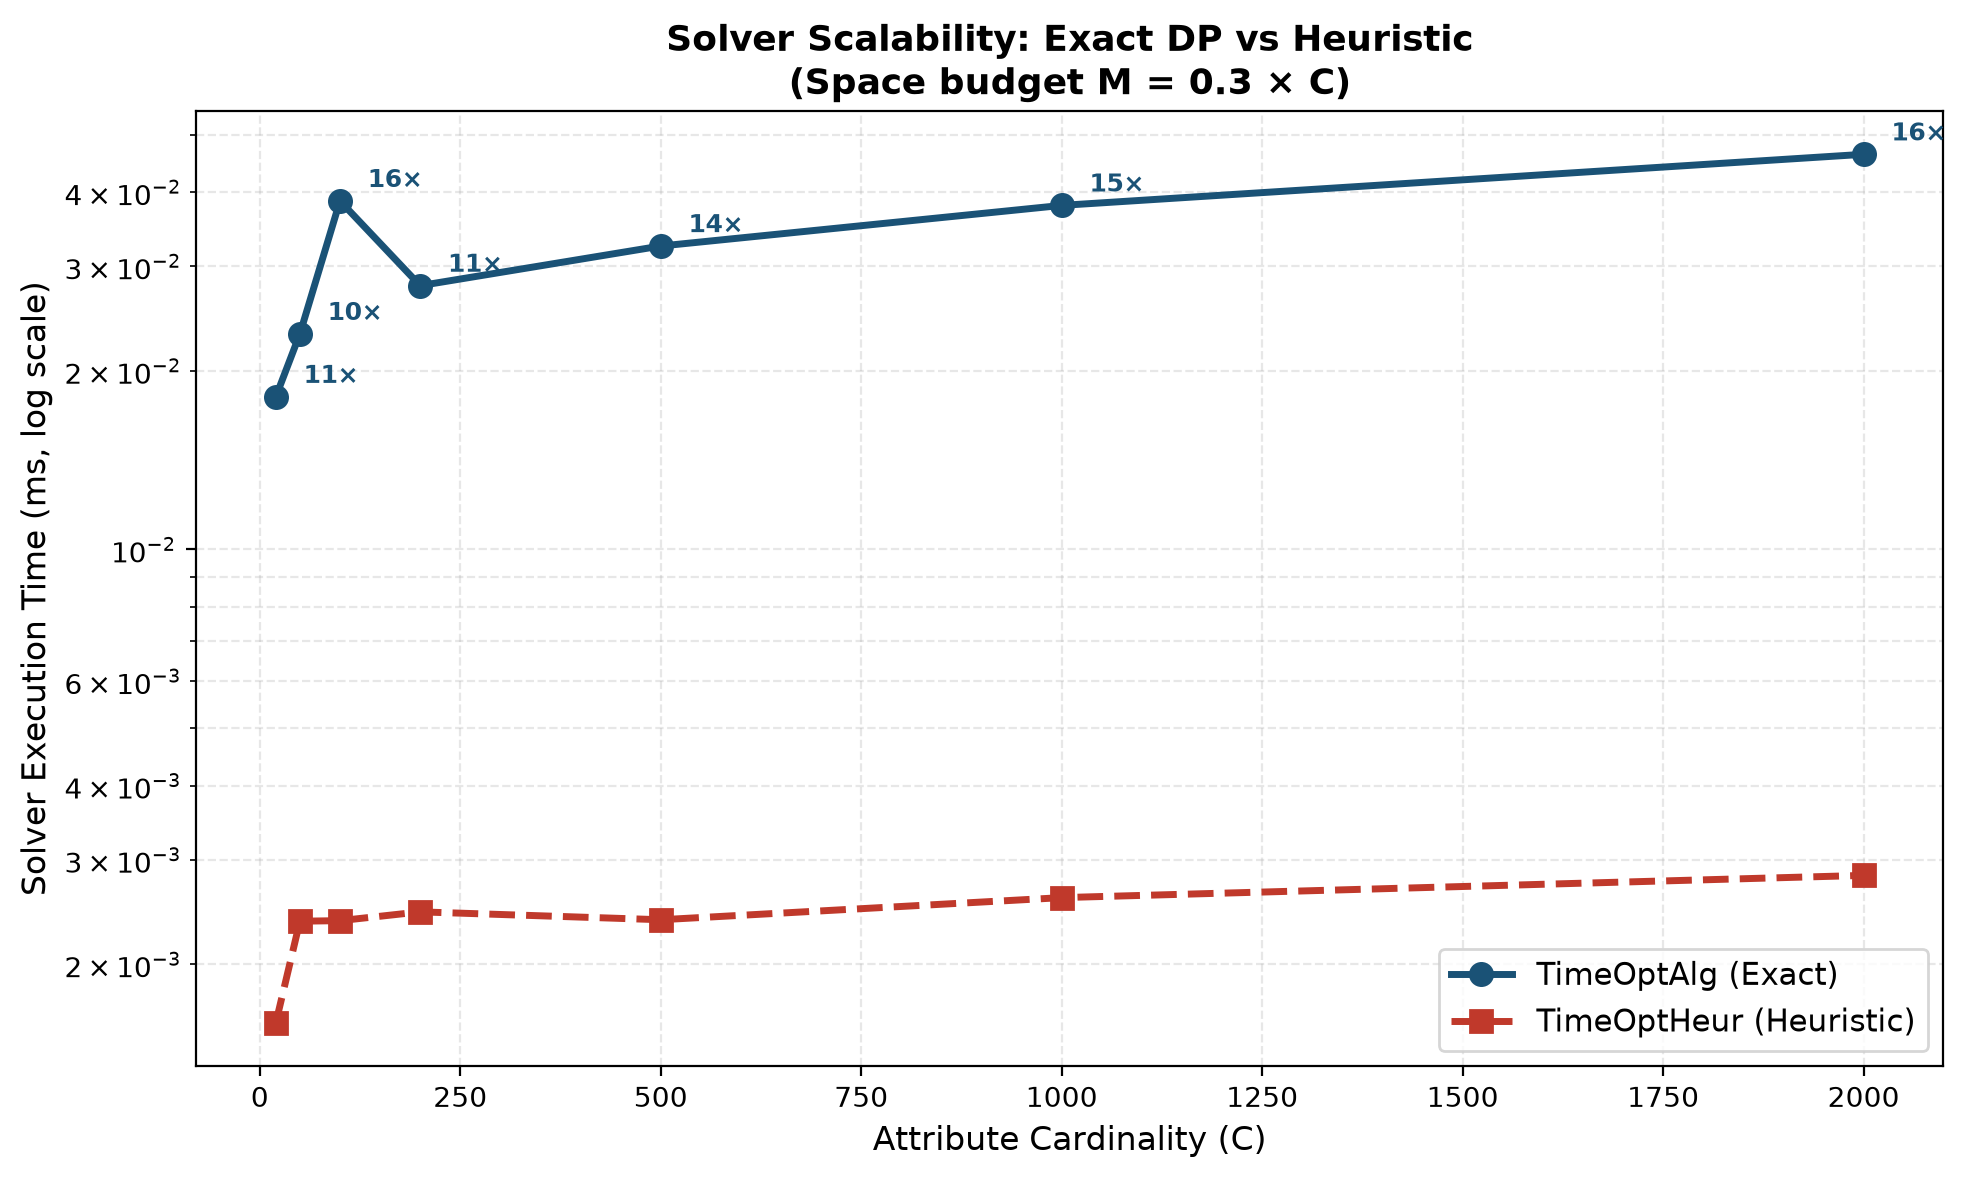
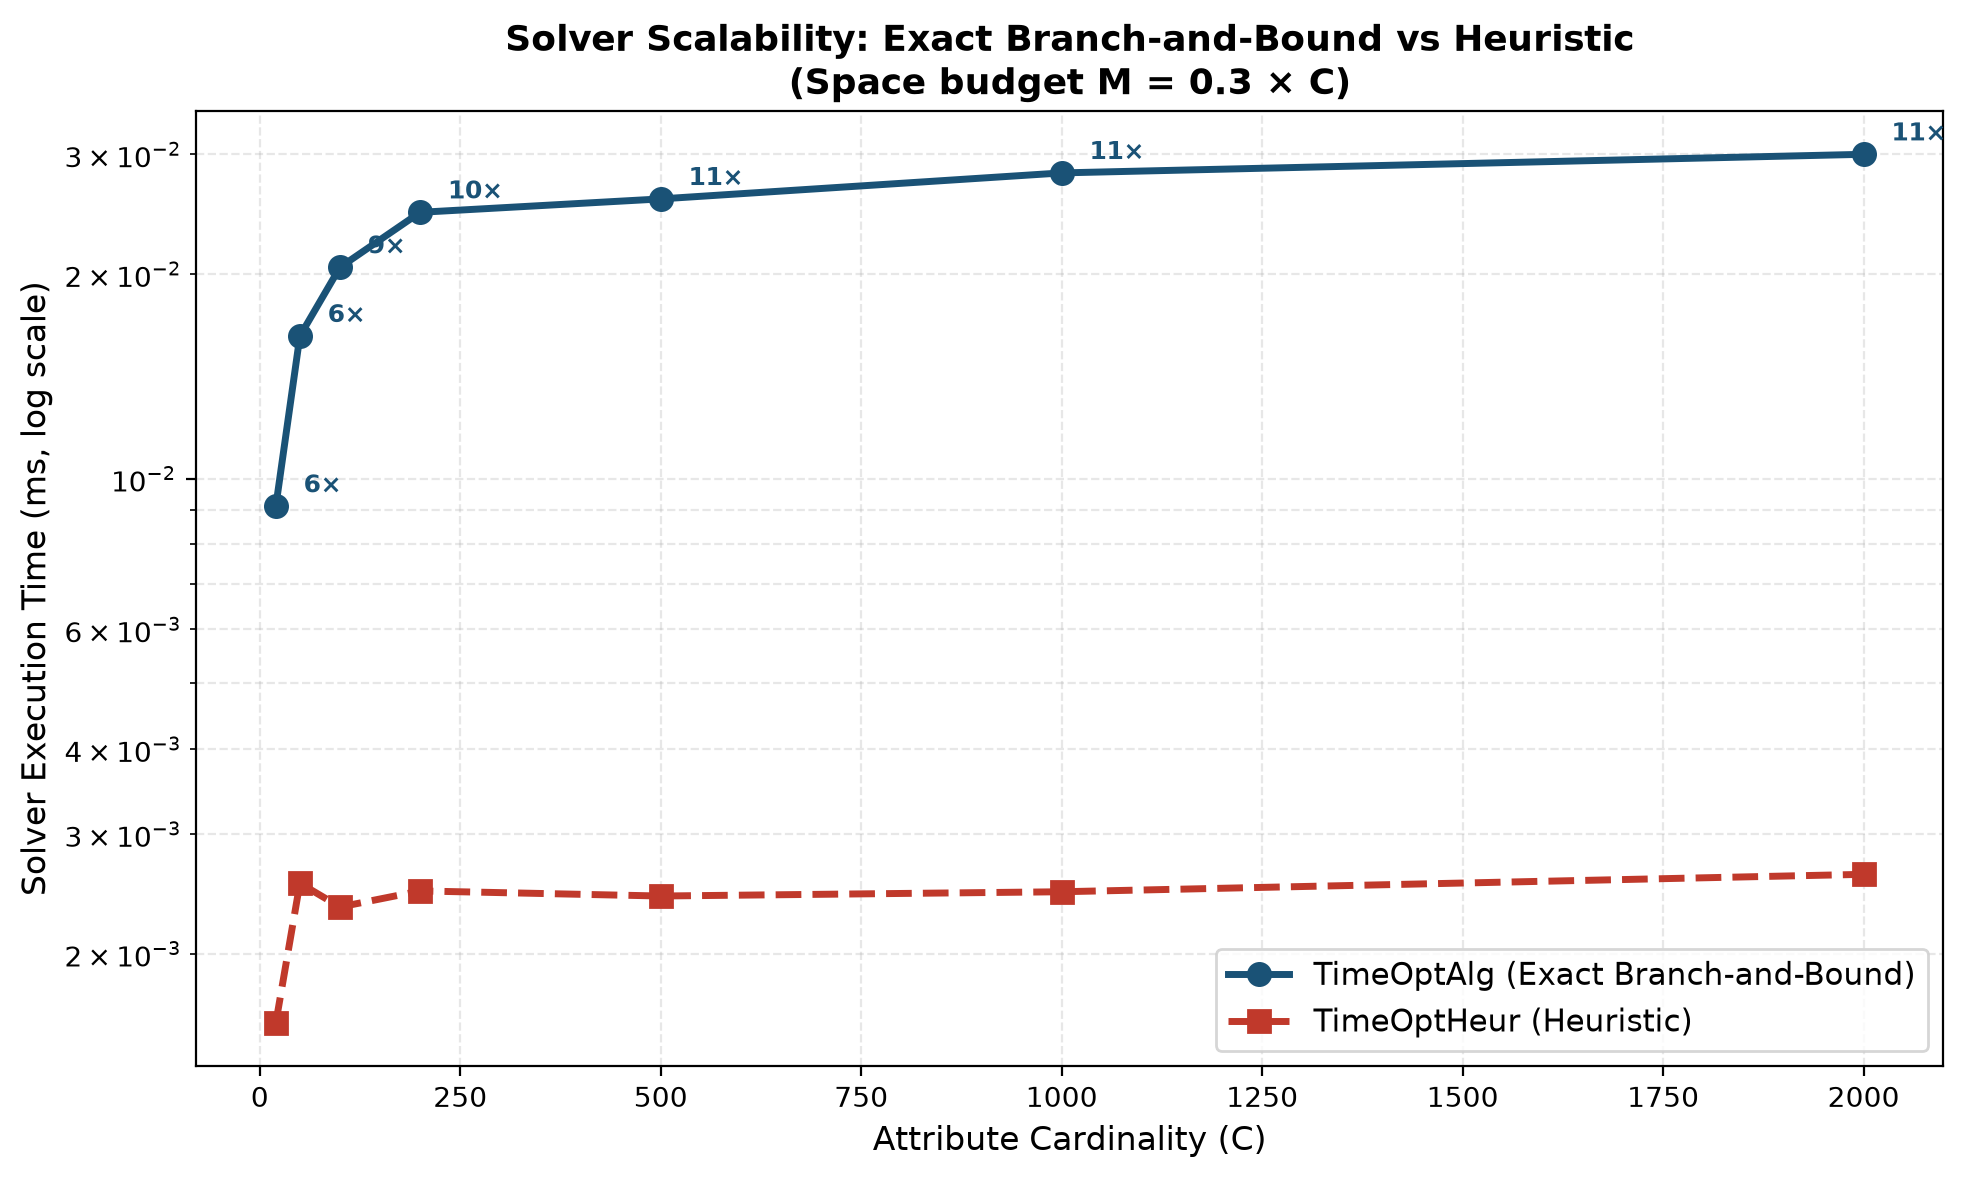
fix(phase3): Section 8 time-optimal simulation bugfixes (Table 2 accuracy, path routing, scalability smoothing, and ground truth verification)

diff --git a/code/time_optimal_constrained_design_section8/code/time_optimal_index_selection_simulation.py b/code/time_optimal_constrained_design_section8/code/time_optimal_index_selection_simulation.py
@@ -26,7 +26,8 @@ import os
 import random
 import statistics
 import sys
-import os
+import time as time_mod
+from functools import lru_cache
 
 # Setup environment and directories
 SCRIPT_DIR = os.path.dirname(os.path.abspath(__file__))
@@ -41,23 +42,11 @@ COMMON_DIR = os.path.join(CODE_ROOT, 'common')
 if COMMON_DIR not in sys.path:
     sys.path.insert(0, COMMON_DIR)
 
-import time as time_mod
-from functools import lru_cache
-
 import matplotlib
 matplotlib.use('Agg')
 import matplotlib.pyplot as plt
 import numpy as np
 
-# ---------------------------------------------------------------------------
-# PATH SETUP
-# ---------------------------------------------------------------------------
-SCRIPT_DIR = os.path.dirname(os.path.abspath(__file__))
-CODE_DIR = os.path.normpath(os.path.join(SCRIPT_DIR, '..'))
-RESULTS_DIR = os.path.normpath(os.path.join(os.path.dirname(os.path.abspath(__file__)), '..', 'results'))
-os.makedirs( exist_ok=True)
-
-sys.path.insert(0, CODE_DIR)
 from bitmap_utils import (
     OpCounter, all_ones, build_range_ncomp, decompose_value,
     get_range_leq_bitmap, ground_truth_query,
@@ -208,6 +197,20 @@ def time_opt_alg_paper(M, C):
     return best_b, best_t, space_of(best_b)
 
 
+def min_space_to_cover(needed, rr, min_b):
+    """Theorem 6.1: Minimum space needed by rr components each >= min_b to cover product needed."""
+    if needed <= 1:
+        return rr * (min_b - 1)
+    if min_b ** rr >= needed:
+        return rr * (min_b - 1)
+    b = max(min_b, math.ceil(needed ** (1.0 / rr)))
+    if b - 1 >= min_b:
+        for tau in range(1, rr + 1):
+            if (b ** tau) * ((b - 1) ** (rr - tau)) >= needed:
+                return tau * (b - 1) + (rr - tau) * (b - 2)
+    return rr * (b - 1)
+
+
 def _search_k_component(k, M, C, prune_time, current, depth, space_used,
                         prod_so_far, results):
     """Branch-and-bound search for k-component bases with strong pruning.
@@ -244,11 +247,9 @@ def _search_k_component(k, M, C, prune_time, current, depth, space_used,
         # Pruning 1: Can remaining-1 components cover C/new_prod?
         rr = remaining - 1
         needed = math.ceil(C / new_prod) if new_prod > 0 and C > new_prod else 1
-        if needed > 1:
-            min_base_for_rest = max(b, math.ceil(needed ** (1.0 / rr)))
-            min_space_for_rest = rr * (min_base_for_rest - 1)
-            if min_space_for_rest > leftover_space:
-                continue  # Impossible
+        min_space_for_rest = min_space_to_cover(needed, rr, b)
+        if min_space_for_rest > leftover_space:
+            continue  # Impossible
 
         # Pruning 2: Optimistic lower bound on Time
         sum_inv_so_far = sum(1.0 / x for x in current) + 1.0 / b
@@ -317,22 +318,24 @@ def refine_index(bases, C):
         seq.remove(bp)
         if bp > 2 and len(seq) > 0:
             bq = min(seq)
+            seq.remove(bq)
             other_prod = prod // (bp * bq)
-            C_prime = math.ceil(C / other_prod) if other_prod > 0 else C
-            disc = (bq + bp) ** 2 - 4 * C_prime
+            # Exact Figure 15 formula: (bp + bq)**2 - (4 * bp * bq * C) / prod
+            disc = (bp + bq) ** 2 - (4.0 * bp * bq * C) / prod
             if disc >= 0:
                 delta = int(math.floor((bp - bq + math.sqrt(disc)) / 2.0))
-                if 0 < delta <= bp - 2:
-                    prod = other_prod * (bp - delta) * (bq + delta)
-                    bp = bp - delta
-                    bq = bq + delta
-            seq.remove(min(seq))
+                if delta > 0:
+                    delta = min(delta, bp - 2)
+                    while delta > 0 and other_prod * (bp - delta) * (bq + delta) < C:
+                        delta -= 1
+                    if delta > 0:
+                        prod = other_prod * (bp - delta) * (bq + delta)
+                        bp = bp - delta
+                        bq = bq + delta
             seq.append(bq)
         b_prime[i - 1] = bp
 
-    rest_prod = 1
-    for i in range(1, n):
-        rest_prod *= b_prime[i]
+    rest_prod = product_of(b_prime[1:])
     b_prime[0] = max(2, math.ceil(C / rest_prod))
     return sorted(b_prime)
 
@@ -473,6 +476,18 @@ def run_empirical_benchmark(C=100, N=100_000, budgets=None):
             print(f"    {label}: bases={bases}, Space={sp}, Time(theory)={theory_time:.3f}")
             idx = build_range_ncomp(data, bases, N)
 
+            # Explicit correctness verification against ground truth across all 6 operators
+            verify_sample_vals = [0, C // 4, C // 2, 3 * C // 4, C - 1]
+            for v_chk in verify_sample_vals:
+                for qt in QUERY_TYPES:
+                    actual_bm = rangeeval_opt_query(idx, bases, v_chk, N, qt)
+                    expected_bm = ground_truth_query(data, N, qt, v_chk)
+                    assert actual_bm == expected_bm, (
+                        f"Correctness failure: {label} index with bases={bases}, "
+                        f"op='{qt}', value={v_chk}"
+                    )
+            print(f"      ✓ Correctness verified: rangeeval_opt matches ground truth across all 6 operators")
+
             # Count ops
             total_ops = OpCounter()
             qcount = 0
@@ -568,7 +583,7 @@ def plot1_heuristic_accuracy(table2):
                   fontsize=13, fontweight='bold')
     ax1.grid(axis='y', linestyle='--', alpha=0.3)
     plt.tight_layout()
-    path = os.path.join( 'figure13_heuristic_accuracy_and_scan_difference.png')
+    path = os.path.join(RESULTS_DIR, 'figure13_heuristic_accuracy_and_scan_difference.png')
     plt.savefig(path, dpi=200, bbox_inches='tight')
     plt.close()
     print(f"  Plot 1 → {path}")
@@ -615,7 +630,7 @@ def plot2_time_vs_space_budget(C_list=None):
     ax.legend(fontsize=10, loc='upper right')
     ax.grid(True, linestyle='--', alpha=0.35)
     plt.tight_layout()
-    path = os.path.join( 'figure14_query_time_vs_space_budget_tradeoff.png')
+    path = os.path.join(RESULTS_DIR, 'figure14_query_time_vs_space_budget_tradeoff.png')
     plt.savefig(path, dpi=200, bbox_inches='tight')
     plt.close()
     print(f"  Plot 2 → {path}")
@@ -662,7 +677,7 @@ def plot3_opt_vs_heur_scatter(table2):
     fig.suptitle('Optimal vs Heuristic Scatter (above diagonal = suboptimal heuristic)',
                  fontsize=13, fontweight='bold', y=1.02)
     plt.tight_layout()
-    path = os.path.join( 'optimal_vs_heuristic_cost_scatter.png')
+    path = os.path.join(RESULTS_DIR, 'optimal_vs_heuristic_cost_scatter.png')
     plt.savefig(path, dpi=200, bbox_inches='tight')
     plt.close()
     print(f"  Plot 3 → {path}")
@@ -677,27 +692,39 @@ def plot4_solver_scalability():
     for C in test_C:
         M = max(math.ceil(math.log2(C)), int(C * 0.3))
 
-        t0 = time_mod.perf_counter()
-        time_opt_alg(M, C)
-        t_opt = (time_mod.perf_counter() - t0) * 1000
+        # Warmup and repeated runs to eliminate timing jitter
+        for _ in range(5):
+            time_opt_alg(M, C)
+
+        n_runs = 30 if C <= 500 else 15
+        opt_samples = []
+        for _ in range(n_runs):
+            t0 = time_mod.perf_counter()
+            time_opt_alg(M, C)
+            opt_samples.append((time_mod.perf_counter() - t0) * 1000.0)
+        t_opt = statistics.median(opt_samples)
+
+        for _ in range(10):
+            time_opt_heur(M, C)
 
         t0 = time_mod.perf_counter()
-        for _ in range(1000):
+        n_heur_runs = 1000
+        for _ in range(n_heur_runs):
             time_opt_heur(M, C)
-        t_heur_per = (time_mod.perf_counter() - t0)  # ms per 1000 runs → per run
+        t_heur_per = (time_mod.perf_counter() - t0) * 1000.0 / n_heur_runs  # ms per run
 
         opt_ms.append(t_opt)
         heur_ms.append(t_heur_per)
         print(f"    C={C:>5d}  M={M:>4d}  Opt={t_opt:>10.3f}ms  Heur={t_heur_per:>8.4f}ms")
 
     ax.plot(test_C, opt_ms, 'o-', color=CLR['opt'], linewidth=2.5, markersize=8,
-            label='TimeOptAlg (Exact)')
+            label='TimeOptAlg (Exact Branch-and-Bound)')
     ax.plot(test_C, heur_ms, 's--', color=CLR['heur'], linewidth=2.5, markersize=8,
             label='TimeOptHeur (Heuristic)')
     ax.set_yscale('log')
     ax.set_xlabel('Attribute Cardinality (C)', fontsize=12)
     ax.set_ylabel('Solver Execution Time (ms, log scale)', fontsize=12)
-    ax.set_title('Solver Scalability: Exact DP vs Heuristic\n'
+    ax.set_title('Solver Scalability: Exact Branch-and-Bound vs Heuristic\n'
                  '(Space budget M = 0.3 × C)', fontsize=13, fontweight='bold')
     ax.legend(fontsize=11)
     ax.grid(True, which='both', linestyle='--', alpha=0.3)
@@ -711,7 +738,7 @@ def plot4_solver_scalability():
                             fontsize=9, color=CLR['opt'], fontweight='bold')
 
     plt.tight_layout()
-    path = os.path.join( 'branch_and_bound_vs_heuristic_scalability.png')
+    path = os.path.join(RESULTS_DIR, 'branch_and_bound_vs_heuristic_scalability.png')
     plt.savefig(path, dpi=200, bbox_inches='tight')
     plt.close()
     print(f"  Plot 4 → {path}")
@@ -753,7 +780,7 @@ def plot5_empirical_vs_theory(bench):
     fig.suptitle('Empirical Validation: Query Latency vs Theoretical Scans\n'
                  '(C=100, N=100,000)', fontsize=13, fontweight='bold', y=1.02)
     plt.tight_layout()
-    path = os.path.join( 'physical_query_latency_vs_theoretical_cost.png')
+    path = os.path.join(RESULTS_DIR, 'physical_query_latency_vs_theoretical_cost.png')
     plt.savefig(path, dpi=200, bbox_inches='tight')
     plt.close()
     print(f"  Plot 5 → {path}")
@@ -779,7 +806,7 @@ def print_table2(table2):
 
 
 def export_table2_csv(table2):
-    path = os.path.join( 'table2_optimal_vs_heuristic_reproduction.csv')
+    path = os.path.join(RESULTS_DIR, 'table2_optimal_vs_heuristic_reproduction.csv')
     with open(path, 'w', newline='') as f:
         w = csv.writer(f)
         w.writerow(['C', 'pct_optimal', 'max_scan_diff', 'avg_scan_diff',
@@ -853,7 +880,7 @@ def main():
     print("=" * 78)
     print("\n  Generated files:")
     for f in sorted(os.listdir(RESULTS_DIR)):
-        fp = os.path.join( f)
+        fp = os.path.join(RESULTS_DIR, f)
         print(f"    {f:45s}  {os.path.getsize(fp):>8,} bytes")
 
 

diff --git a/code/bitmap_utils.py b/code/bitmap_utils.py
@@ -8,8 +8,8 @@ Canonical implementation is located in `code/common/bitmap_utils.py`.
 import os
 import sys
 
-COMMON_DIR = os.path.join(os.path.dirname(os.path.abspath(__file__)), 'common')
-if COMMON_DIR not in sys.path:
-    sys.path.insert(0, COMMON_DIR)
+_common_dir = os.path.join(os.path.dirname(os.path.abspath(__file__)), 'common')
+if _common_dir not in sys.path:
+    sys.path.insert(0, _common_dir)
 
-from bitmap_utils import *
+from common.bitmap_utils import *
